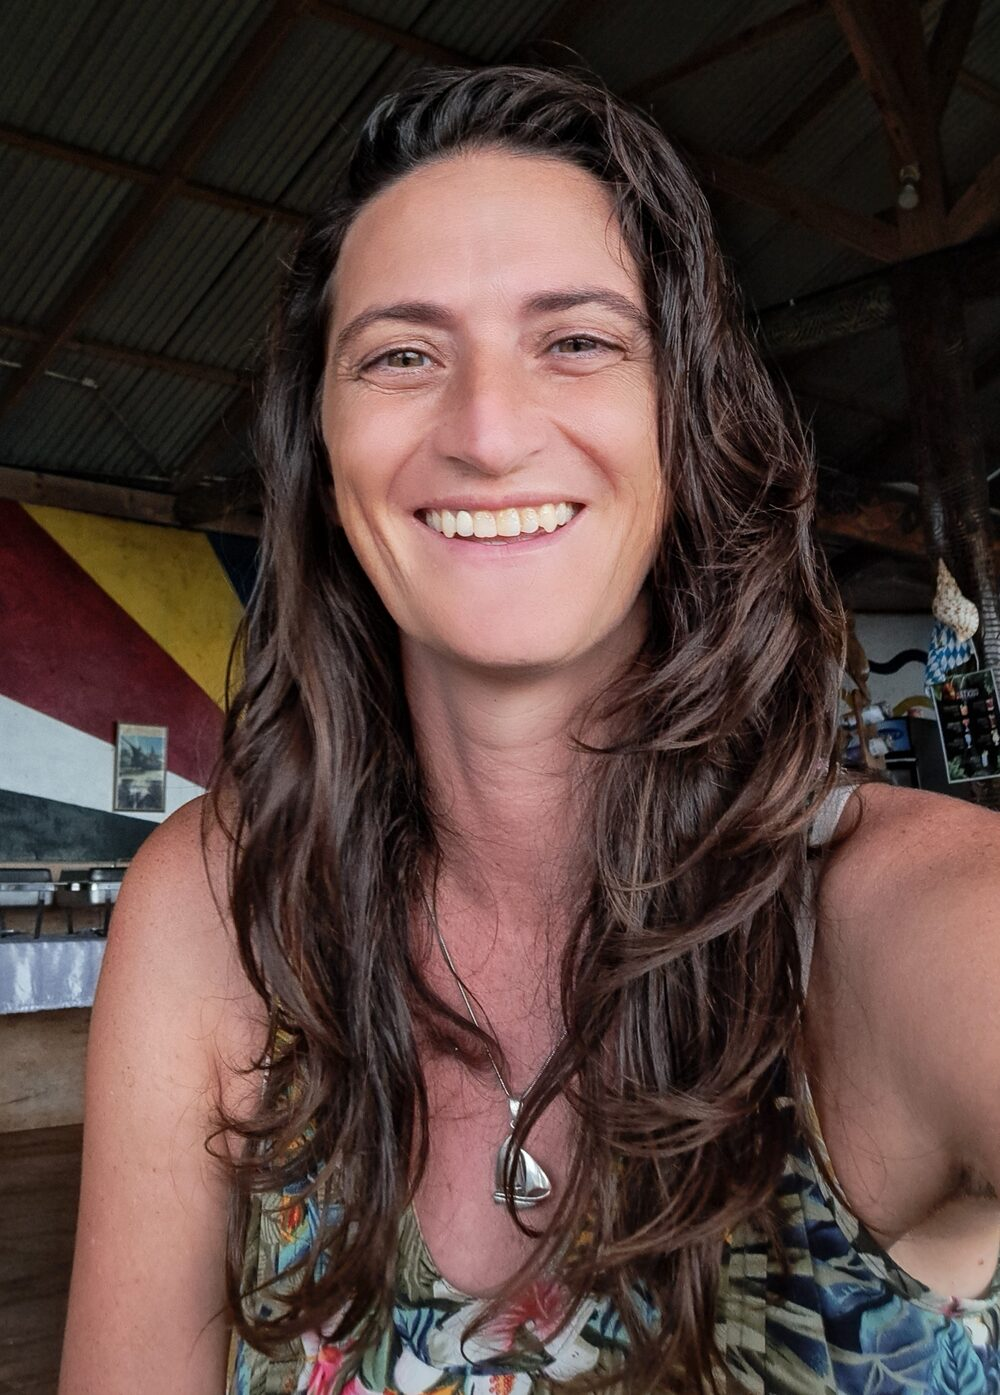
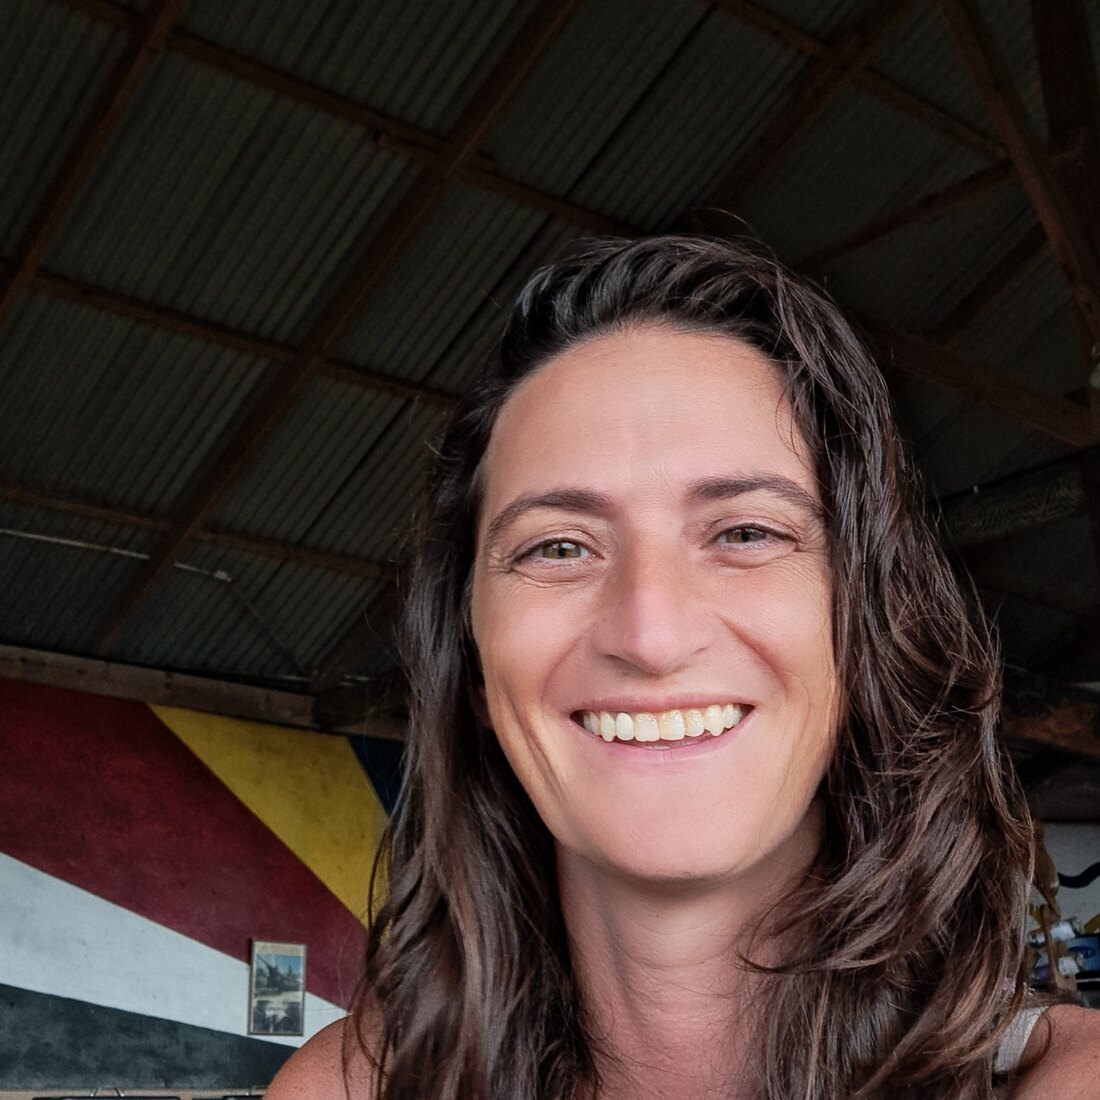
Add files via upload

diff --git a/site/index.html b/site/index.html
@@ -8,7 +8,7 @@
 <link rel="preconnect" href="https://fonts.googleapis.com">
 <link rel="preconnect" href="https://fonts.gstatic.com" crossorigin>
 <link href="https://fonts.googleapis.com/css2?family=Lora:ital,wght@0,400;0,500;0,600;1,400;1,500&family=Nunito:wght@400;600;700;800&display=swap" rel="stylesheet">
-<link rel="stylesheet" href="healing.css?v=4">
+<link rel="stylesheet" href="healing.css?v=5">
 </head>
 <body>
 
@@ -46,7 +46,7 @@
       <a class="btn btn-primary" href="offerings.html">Start your healing journey</a>
     </div>
     <div class="hero-cred">
-      <p class="cred-title">Dr. Sarah Ohayon — Marine Scientist. Somatic guide. Ocean protector.</p>
+      <p class="cred-title">Dr. Sarah Ohayon — Scientist. Somatic guide. Conservation leader.</p>
       <p>A path grounded in trauma science, ecology, and lived experience. Guided by <strong>Sarah Ohayon, PhD</strong>, marine &amp; freshwater ecologist, who walked it herself.</p>
       <a class="btn btn-light" href="journey.html">Read my story</a>
     </div>
@@ -58,8 +58,8 @@
   <div class="container">
     <div class="eyebrow-center reveal">
       <p class="kicker">If this is you</p>
-      <h2>Childhood trauma can leave a lifetime imprint</h2>
-      <p class="lead">Complex trauma can affect your well-being in three main domains. If you recognise yourself here, you are in the right place to start your journey.</p>
+      <h2>Childhood is our genesis, shaping the very foundation of who we become.</h2>
+      <p class="lead">Childhood trauma can leave a lifetime imprint, deeply affecting your well-being in three main domains. If you recognise yourself here, you are in the right place to start your journey.</p>
     </div>
     <div class="pain-grid">
       <div class="pain-card p1 reveal">
@@ -78,7 +78,7 @@
     <div class="reframe-split reveal">
       <div class="rs-img"><img src="photos/nervous-tree.jpg" alt="A tree's branches spreading like a nervous system against a glowing sky"></div>
       <div class="rs-text">
-        <p class="big">Nothing is wrong with you. <em>Something happened to you.</em></p>
+        <p class="big">Nothing is wrong with you.<br><em>Something happened to you.</em></p>
         <p class="lead">Like any mammal facing danger, your body does something wise and automatic: it protects you. Fear, fight, flight, freeze, fawn: these are ancient survival instincts, not flaws. But painful early experiences can leave that alarm switched on, long after the danger has passed. And the parts of the brain that hold the fear respond faster than the parts that think and speak. That is why understanding your story, and talking about it, can only take you so far. The body learned it. The body has to be part of how it heals.</p>
         <p style="margin-top:22px"><a class="btn btn-ghost" href="trauma.html">Understand PTSD &amp; Complex PTSD →</a></p>
       </div>
@@ -93,7 +93,7 @@
       <div class="split-img reveal" style="aspect-ratio:4/3"><img src="photos/dragonfly.jpg" alt="A dragonfly resting on a reed"></div>
       <div class="split-text reveal">
         <p class="kicker" style="color:rgba(255,255,255,.82)">Why nature heals, and why water is a gate</p>
-        <h2>The nervous system remembers how to settle. Nature is one of its oldest teachers.</h2>
+        <h2>The nervous system <em>can</em> remember how to settle. Nature is one of its oldest teachers.</h2>
         <p>For millions of years, our brains evolved in real jungles, by rivers, along coastlines, in the ocean, not in cities of concrete and glass. Your body is tuned to regulate in the natural world. Returning to it isn't an escape; it's coming back to the conditions you were built for.</p>
         <p>And water most of all. Cold water on the face triggers a built-in calming reflex within seconds. Being held by the sea, its buoyancy, its rhythm, the sense of being carried, offers the body a rare experience of safety. After a life spent in and under the water, I have felt this again and again: the ocean is not a backdrop to the healing. It is part of it.</p>
         <p style="margin-top:22px"><a class="btn btn-light" href="nature-of-healing.html">The nature of healing, the evidence →</a></p>
@@ -103,7 +103,7 @@
 </section>
 
 <!-- THE FOUR LAYERS OF HEALING -->
-<section id="how">
+<section id="how" class="section-photo" style="background-image:url('photos/layers-bg.jpg')">
   <div class="container">
     <div class="eyebrow-center reveal">
       <p class="kicker">The four layers</p>
@@ -123,7 +123,7 @@
 <section id="guide">
   <div class="container">
     <div class="split">
-      <div class="split-img reveal" style="aspect-ratio:1/1;max-width:440px"><img src="photos/sarah_portrait.jpg" alt="Dr. Sarah Ohayon" style="object-position:center 18%"></div>
+      <div class="split-img reveal" style="aspect-ratio:1/1;max-width:440px"><img src="photos/sarah_portrait.jpg" alt="Dr. Sarah Ohayon" style="object-position:center top"></div>
       <div class="split-text reveal">
         <p class="kicker">Your guide</p>
         <h2>Dr. Sarah Ohayon</h2>
@@ -140,8 +140,8 @@
   <div class="container">
     <div class="eyebrow-center reveal">
       <p class="kicker">Begin your journey</p>
-      <h2>Different doors, your own way home</h2>
-      <p class="lead">There's no single route through complex trauma. Each door restores the same three relationships it breaks, with yourself, through your body; with the people around you; and with the living world, and you're free to find the way that fits you.</p>
+      <h2>Let's walk together</h2>
+      <p class="lead">There is no single route through complex trauma. I invite you to experience how integrating Human &amp; Nature healing restores the relationships that trauma breaks: with yourself through your body, with the people around you, and with the living world. Find the way that fits you the most.</p>
     </div>
     <div class="offer-grid">
       <div class="offer-card reveal" id="offer-water">
@@ -185,8 +185,8 @@
 <section id="story">
   <div class="container">
     <div class="narrative reveal" style="margin:0 auto;text-align:center">
-      <p class="kicker">My story</p>
-      <h2>I spent my life healing nature, while quietly struggling to heal myself.</h2>
+      <p class="kicker">My journey</p>
+      <h2>I spent my life healing nature,<br>while quietly struggling to heal myself.</h2>
       <p style="font-size:1.12rem">I'm Sarah, a marine and freshwater ecologist. From the outside, my life in the water looked like a success. Inside, I carried the anger, shame, and low self-worth of childhood trauma that no achievement could touch, until I found the path that finally worked: through the body, the ocean, and somatic practice, slowly coming home to myself.</p>
       <p>That path, understood as a scientist, and lived as a woman, is what I now walk with other women.</p>
       <a class="btn btn-ghost" href="journey.html">Read my full journey →</a>
@@ -267,8 +267,10 @@ function fitToTitle(sel,minPx,maxPx){
   const cur=t.getBoundingClientRect().width;
   if(cur>0){t.style.fontSize=Math.max(minPx,Math.min(maxPx,20*target/cur)).toFixed(2)+'px';}
 }
-function fitHero(){ fitToTitle('.hero-tag',11,26); }
+function fitHero(){ fitToTitle('.hero-tag',10,34); }
 window.addEventListener('load',fitHero);
+if(document.fonts&&document.fonts.ready){document.fonts.ready.then(fitHero);}
+setTimeout(fitHero,400);
 window.addEventListener('resize',()=>{clearTimeout(window.__ft);window.__ft=setTimeout(fitHero,120);});
 </script>
 </body>

diff --git a/site/healing.css b/site/healing.css
@@ -18,8 +18,8 @@
   --maxw:1600px;
 }
 *{box-sizing:border-box}
-html{scroll-behavior:smooth;font-size:20px}
-body{margin:0;font-family:var(--sans);color:var(--ink);background:var(--cream);line-height:1.72;font-size:1.06rem;-webkit-font-smoothing:antialiased}
+html{scroll-behavior:smooth;font-size:21px}
+body{margin:0;font-family:var(--sans);color:var(--ink);background:var(--cream);line-height:1.72;font-size:1.1rem;-webkit-font-smoothing:antialiased}
 h1,h2,h3,h4{font-family:var(--serif);font-weight:500;line-height:1.15;color:var(--forest);margin:0 0 .5em}
 h1{font-size:clamp(2.1rem,5vw,3.5rem);letter-spacing:-.01em}
 h2{font-size:clamp(1.7rem,3.4vw,2.5rem)}
@@ -28,7 +28,7 @@ p{margin:0 0 1.1em}
 a{color:var(--tide);text-decoration:none}
 img{max-width:100%;display:block}
 .container{max-width:var(--maxw);margin:0 auto;padding:0 24px}
-.kicker{font-family:var(--sans);text-transform:uppercase;letter-spacing:.22em;font-size:.72rem;font-weight:700;color:var(--stone)}
+.kicker{font-family:var(--sans);text-transform:uppercase;letter-spacing:.2em;font-size:.9rem;font-weight:800;color:var(--forest)}
 .center{text-align:center}
 .lead{font-size:1.3rem;color:#3a4237}
 .muted{color:var(--stone)}
@@ -182,6 +182,13 @@ ul.plist li::before{content:"";position:absolute;left:4px;top:.62em;width:7px;he
 .keydiff .line b{font-style:normal;color:var(--tide)}
 
 /* four layers */
+.section-photo{position:relative;background-size:cover;background-position:center;background-attachment:fixed}
+.section-photo::before{content:"";position:absolute;inset:0;background:linear-gradient(180deg,rgba(26,40,36,.74),rgba(26,40,36,.66))}
+.section-photo>.container{position:relative;z-index:1}
+.section-photo .eyebrow-center h2{color:#fff}
+.section-photo .eyebrow-center .lead{color:#e9efe9}
+.section-photo .eyebrow-center .kicker{color:rgba(255,255,255,.9)}
+@media(max-width:820px){.section-photo{background-attachment:scroll}}
 .four-grid{display:grid;grid-template-columns:repeat(4,1fr);gap:22px}
 .layer-card{background:#fff;border-radius:16px;padding:26px 22px;border:1px solid rgba(138,133,119,.18);box-shadow:0 6px 24px rgba(46,64,52,.05)}
 .layer-num{font-family:var(--serif);font-size:1.5rem;color:var(--tide2);opacity:.65;margin-bottom:6px}
@@ -233,8 +240,8 @@ ul.plist li::before{content:"";position:absolute;left:4px;top:.62em;width:7px;he
 .layer-card .btn{margin-top:auto;align-self:flex-start}
 
 /* reframe split — nervous-system image + text */
-.reframe-split{display:grid;grid-template-columns:.85fr 1.15fr;gap:48px;align-items:center;max-width:1100px;margin:0 auto}
-.reframe-split .rs-img{border-radius:16px;overflow:hidden;box-shadow:0 14px 40px rgba(46,64,52,.16);aspect-ratio:3/4}
+.reframe-split{display:grid;grid-template-columns:1.05fr 1.1fr;gap:52px;align-items:center;max-width:1200px;margin:0 auto}
+.reframe-split .rs-img{border-radius:16px;overflow:hidden;box-shadow:0 14px 40px rgba(46,64,52,.16);aspect-ratio:4/5}
 .reframe-split .rs-img img{width:100%;height:100%;object-fit:cover}
 .reframe-split .big{font-family:var(--serif);font-size:clamp(1.7rem,3.3vw,2.5rem);color:var(--forest);line-height:1.2;margin-bottom:.5em}
 .reframe-split .big em{color:var(--clay);font-style:italic}

diff --git a/site/body-of-water.html b/site/body-of-water.html
@@ -8,7 +8,7 @@
 <link rel="preconnect" href="https://fonts.googleapis.com">
 <link rel="preconnect" href="https://fonts.gstatic.com" crossorigin>
 <link href="https://fonts.googleapis.com/css2?family=Lora:ital,wght@0,400;0,500;0,600;1,400;1,500&family=Nunito:wght@400;600;700;800&display=swap" rel="stylesheet">
-<link rel="stylesheet" href="healing.css?v=4">
+<link rel="stylesheet" href="healing.css?v=5">
 </head>
 <body>
 <header class="nav">

diff --git a/site/forest-earth.html b/site/forest-earth.html
@@ -8,7 +8,7 @@
 <link rel="preconnect" href="https://fonts.googleapis.com">
 <link rel="preconnect" href="https://fonts.gstatic.com" crossorigin>
 <link href="https://fonts.googleapis.com/css2?family=Lora:ital,wght@0,400;0,500;0,600;1,400;1,500&family=Nunito:wght@400;600;700;800&display=swap" rel="stylesheet">
-<link rel="stylesheet" href="healing.css?v=4">
+<link rel="stylesheet" href="healing.css?v=5">
 </head>
 <body>
 <header class="nav">

diff --git a/site/retreat.html b/site/retreat.html
@@ -8,7 +8,7 @@
 <link rel="preconnect" href="https://fonts.googleapis.com">
 <link rel="preconnect" href="https://fonts.gstatic.com" crossorigin>
 <link href="https://fonts.googleapis.com/css2?family=Lora:ital,wght@0,400;0,500;0,600;1,400;1,500&family=Nunito:wght@400;600;700;800&display=swap" rel="stylesheet">
-<link rel="stylesheet" href="healing.css?v=4">
+<link rel="stylesheet" href="healing.css?v=5">
 </head>
 <body>
 <header class="nav">

diff --git a/site/twelve-week.html b/site/twelve-week.html
@@ -8,7 +8,7 @@
 <link rel="preconnect" href="https://fonts.googleapis.com">
 <link rel="preconnect" href="https://fonts.gstatic.com" crossorigin>
 <link href="https://fonts.googleapis.com/css2?family=Lora:ital,wght@0,400;0,500;0,600;1,400;1,500&family=Nunito:wght@400;600;700;800&display=swap" rel="stylesheet">
-<link rel="stylesheet" href="healing.css?v=4">
+<link rel="stylesheet" href="healing.css?v=5">
 </head>
 <body>
 <header class="nav">

diff --git a/site/healing-together.html b/site/healing-together.html
@@ -8,7 +8,7 @@
 <link rel="preconnect" href="https://fonts.googleapis.com">
 <link rel="preconnect" href="https://fonts.gstatic.com" crossorigin>
 <link href="https://fonts.googleapis.com/css2?family=Lora:ital,wght@0,400;0,500;0,600;1,400;1,500&family=Nunito:wght@400;600;700;800&display=swap" rel="stylesheet">
-<link rel="stylesheet" href="healing.css?v=4">
+<link rel="stylesheet" href="healing.css?v=5">
 </head>
 <body>
 

diff --git a/site/journey.html b/site/journey.html
@@ -8,7 +8,7 @@
 <link rel="preconnect" href="https://fonts.googleapis.com">
 <link rel="preconnect" href="https://fonts.gstatic.com" crossorigin>
 <link href="https://fonts.googleapis.com/css2?family=Lora:ital,wght@0,400;0,500;0,600;1,400;1,500&family=Nunito:wght@400;600;700;800&display=swap" rel="stylesheet">
-<link rel="stylesheet" href="healing.css?v=4">
+<link rel="stylesheet" href="healing.css?v=5">
 </head>
 <body>
 

diff --git a/site/nature-of-healing.html b/site/nature-of-healing.html
@@ -8,7 +8,7 @@
 <link rel="preconnect" href="https://fonts.googleapis.com">
 <link rel="preconnect" href="https://fonts.gstatic.com" crossorigin>
 <link href="https://fonts.googleapis.com/css2?family=Lora:ital,wght@0,400;0,500;0,600;1,400;1,500&family=Nunito:wght@400;600;700;800&display=swap" rel="stylesheet">
-<link rel="stylesheet" href="healing.css?v=4">
+<link rel="stylesheet" href="healing.css?v=5">
 </head>
 <body>
 

diff --git a/site/offerings.html b/site/offerings.html
@@ -8,7 +8,7 @@
 <link rel="preconnect" href="https://fonts.googleapis.com">
 <link rel="preconnect" href="https://fonts.gstatic.com" crossorigin>
 <link href="https://fonts.googleapis.com/css2?family=Lora:ital,wght@0,400;0,500;0,600;1,400;1,500&family=Nunito:wght@400;600;700;800&display=swap" rel="stylesheet">
-<link rel="stylesheet" href="healing.css?v=4">
+<link rel="stylesheet" href="healing.css?v=5">
 </head>
 <body>
 

diff --git a/site/publications.html b/site/publications.html
@@ -8,7 +8,7 @@
 <link rel="preconnect" href="https://fonts.googleapis.com">
 <link rel="preconnect" href="https://fonts.gstatic.com" crossorigin>
 <link href="https://fonts.googleapis.com/css2?family=Lora:ital,wght@0,400;0,500;0,600;1,400;1,500&family=Nunito:wght@400;600;700;800&display=swap" rel="stylesheet">
-<link rel="stylesheet" href="healing.css?v=4">
+<link rel="stylesheet" href="healing.css?v=5">
 </head>
 <body>
 

diff --git a/site/trauma.html b/site/trauma.html
@@ -8,7 +8,7 @@
 <link rel="preconnect" href="https://fonts.googleapis.com">
 <link rel="preconnect" href="https://fonts.gstatic.com" crossorigin>
 <link href="https://fonts.googleapis.com/css2?family=Lora:ital,wght@0,400;0,500;0,600;1,400;1,500&family=Nunito:wght@400;600;700;800&display=swap" rel="stylesheet">
-<link rel="stylesheet" href="healing.css?v=4">
+<link rel="stylesheet" href="healing.css?v=5">
 </head>
 <body>
 
